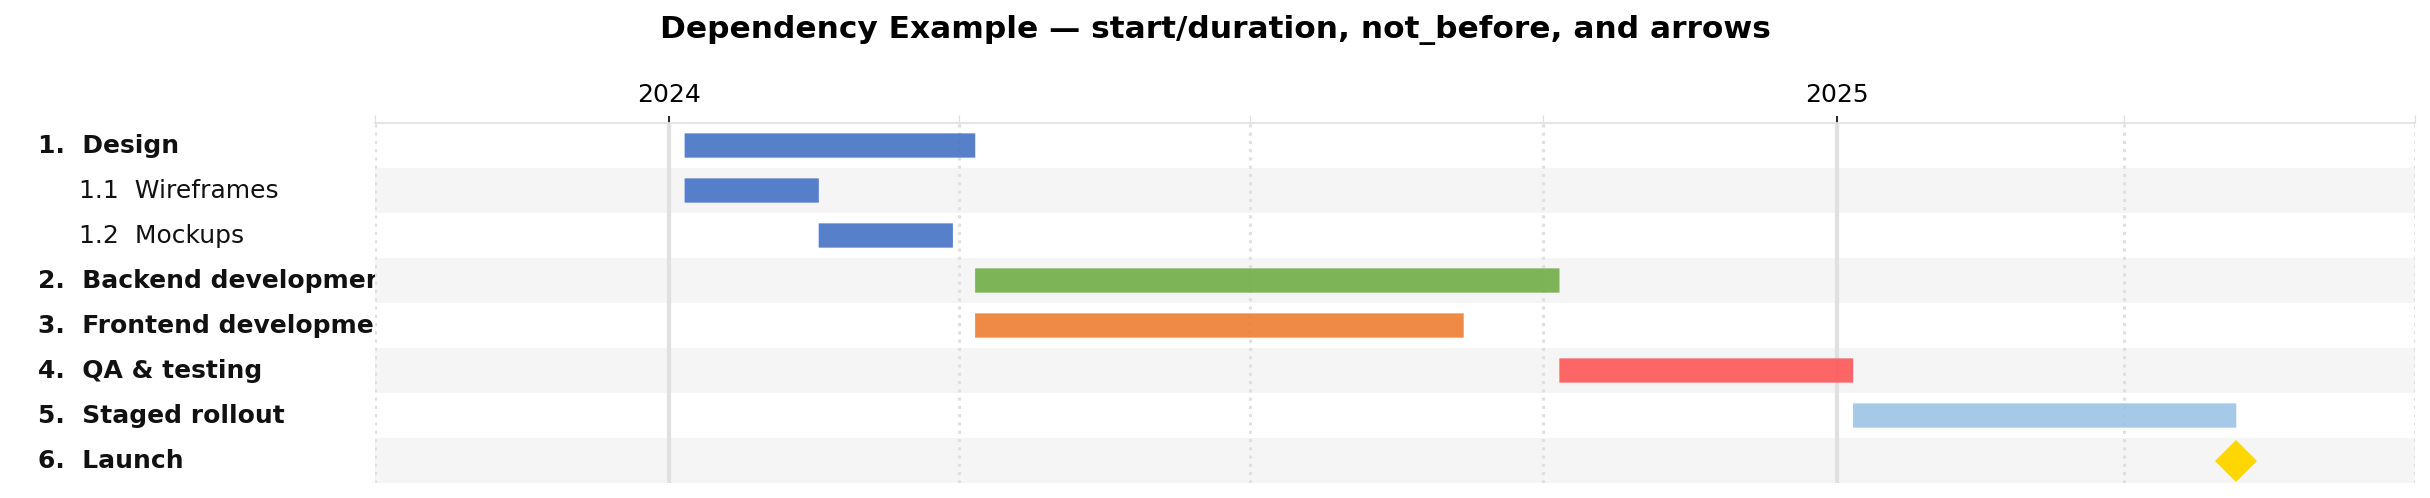
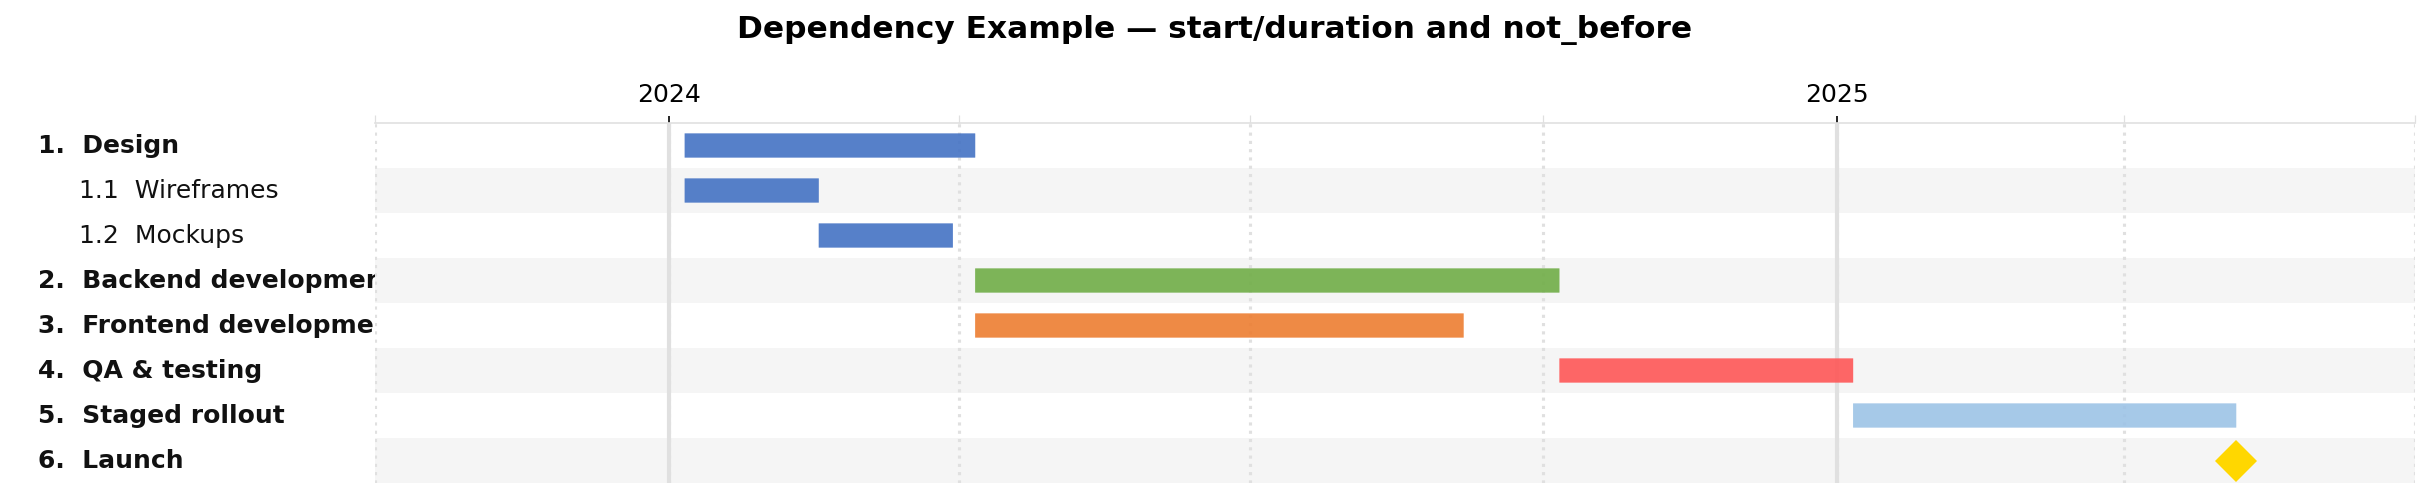
small changes

Changed region(s): [[0.2469, 0.0301, 0.7407, 0.0904]]

diff --git a/README.md b/README.md
@@ -94,14 +94,13 @@ render_chart(config, "project.png", dpi=150)
 | `end` | date string | Optional chart x-axis end date |
 | `style` | object | Visual style overrides (see below) |
 | `tasks` | array | Top-level list of task objects |
-| `arrows` | array | Dependency arrows drawn between tasks (see below) |
 
 ### Task object
 
 | Field | Type | Description |
 |-------|------|-------------|
 | `name` | string | **Required.** Task label |
-| `id` | string | Unique identifier used for `not_before` and `arrows` references |
+| `id` | string | Unique identifier used for `not_before` references |
 | `start` | date string | Bar start date |
 | `end` | date string | Bar end date |
 | `duration` | string or int | Duration from `start` (or resolved `not_before` end): `"14d"`, `"2w"`, `"3m"`, `"2y"`, or a plain integer (days) |
@@ -116,15 +115,6 @@ render_chart(config, "project.png", dpi=150)
 > **Auto date computation:** When a task has `children` but no explicit `start`/`end`, the dates are computed automatically as the earliest child start and latest child end, recursively.
 
 > **Duration formats:** `d`/`day`/`days`, `w`/`week`/`weeks`, `m`/`month`/`months`, `y`/`year`/`years` — e.g. `"14d"`, `"2w"`, `"3m"`, `"1y"`.
-
-### Arrow object
-
-| Field | Type | Description |
-|-------|------|-------------|
-| `from` | string | `id` of the source task (arrow starts at its end) |
-| `to` | string | `id` of the target task (arrow points to its start) |
-| `color` | CSS hex string | Arrow colour (default: `"#888888"`) |
-| `label` | string | Optional text label drawn on the arrow |
 
 ### Style object
 
@@ -161,19 +151,20 @@ See the [`examples/`](examples/) folder for ready-to-run JSON files.
 
 ![simple](examples/simple.png)
 
+### Dependencies
+
+[`examples/dependencies.json`](examples/dependencies.json) — `id`, `duration`, and `not_before`
+
+![dependencies](examples/dependencies.png)
+
 ### Complex roadmap
 
 [`examples/complex.json`](examples/complex.json) — a multi-year roadmap with deep nesting and custom colours
 
 ![complex](examples/complex.png)
 
-### Dependencies & arrows
 
-[`examples/dependencies.json`](examples/dependencies.json) — `id`, `duration`, `not_before`, and `arrows`
-
-![dependencies](examples/dependencies.png)
-
-Generate them locally:
+## How to Run
 
 ```bash
 jsonantt examples/simple.json examples/simple.png
@@ -181,8 +172,3 @@ jsonantt examples/complex.json examples/complex.png
 jsonantt examples/dependencies.json examples/dependencies.png
 ```
 
----
-
-## License
-
-MIT